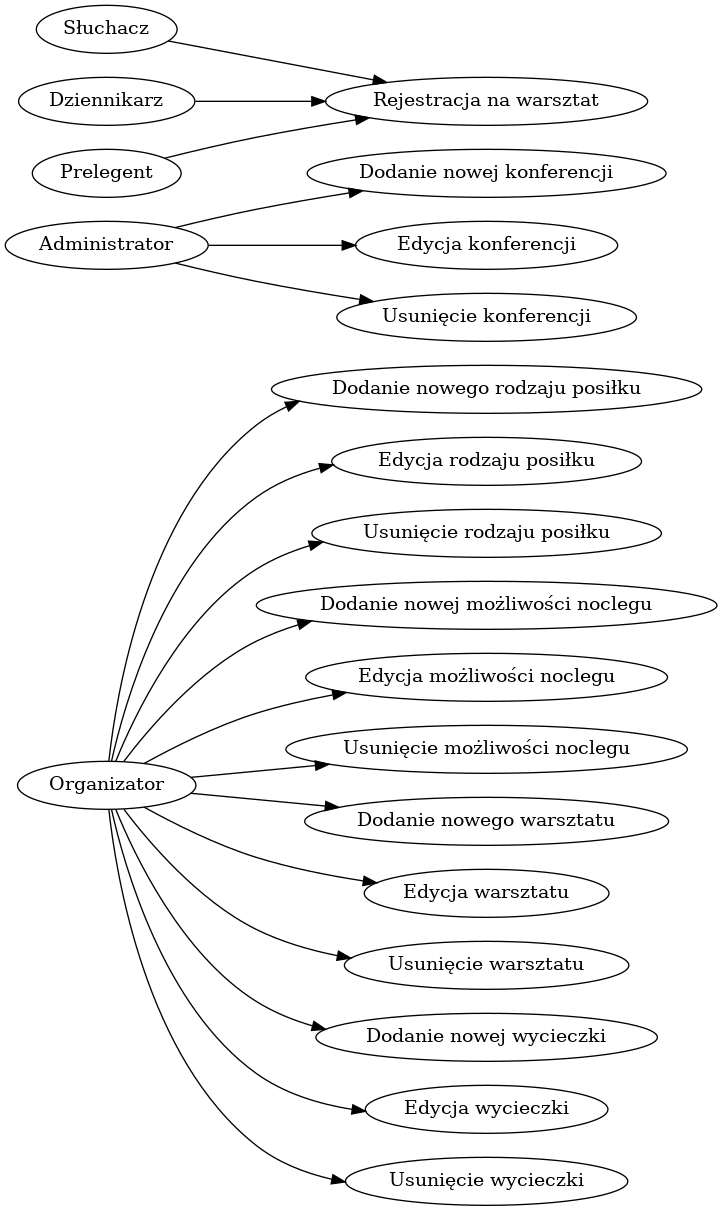
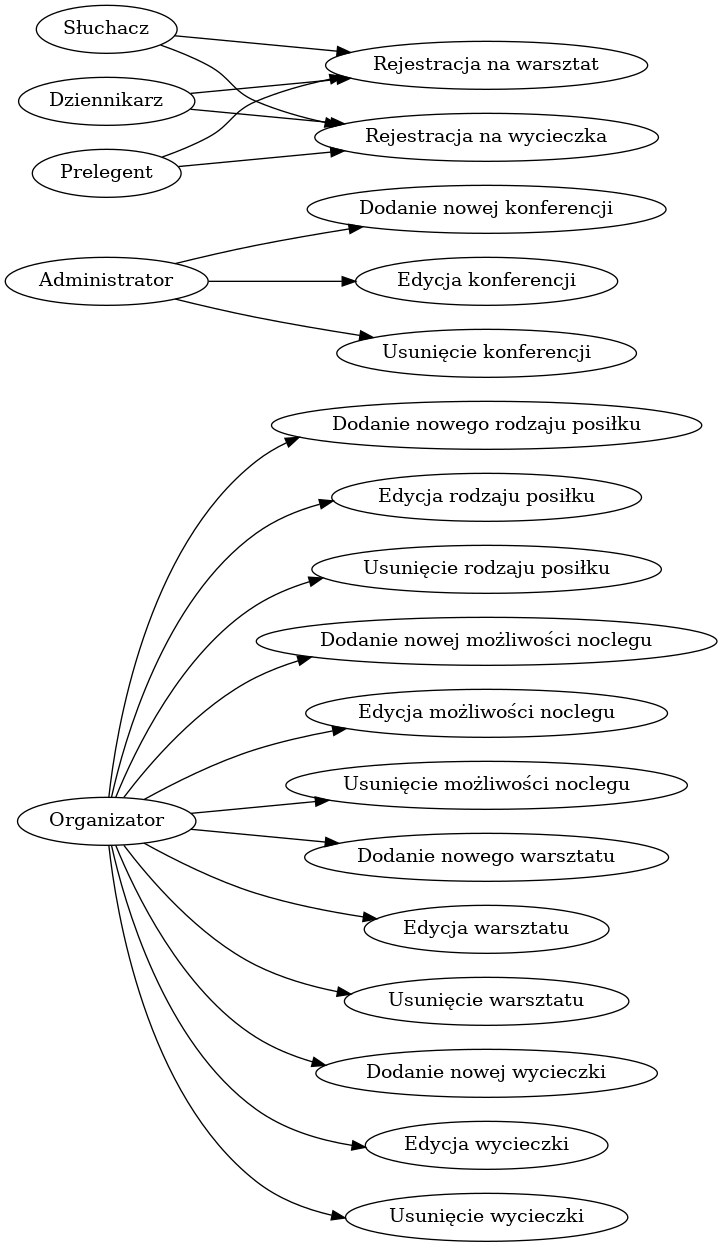
Changes so far

diff --git a/iop.html b/iop.html
@@ -282,6 +282,24 @@
 <li>System wyświetla komunikat o błędzie.</li>
 <li>Powrót do punktu 1.</li>
 </ol>
+<h3 id="pb17-rejestracja-na-wycieczka">PB17 Rejestracja na wycieczka</h3>
+<p>Aktorzy: Słuchacz, Dziennikarz, Prelegent</p>
+<p><em>Scenariusz główny:</em></p>
+<ol style="list-style-type: decimal">
+<li>Uczestnik wybiera opcję &quot;Rejestracja na wycieczka&quot;.</li>
+<li>System prezentuje listę wycieczek.</li>
+<li>Uczestnik wybiera wycieczka.</li>
+<li>Uczestnik zatwierdza.</li>
+<li>System generuje rachunek do zapłacenia.</li>
+<li>System zapisuje rezerwację.</li>
+</ol>
+<p><em>Scenariusz alternatywny 1:</em></p>
+<p>1-4. Jak w scenariuszu głównym</p>
+<ol start="5" style="list-style-type: decimal">
+<li>Miejsce zostało zajęte w międzyczasie.</li>
+<li>System wyświetla komunikat o błędzie.</li>
+<li>Powrót do punktu 1.</li>
+</ol>
 <h2 id="przypadki-systemowe">Przypadki Systemowe</h2>
 <h2 id="diagram">Diagram</h2>
 <p><img src=przypadki.png></p>

diff --git a/gienierator.py b/gienierator.py
@@ -209,6 +209,8 @@ CRUD(konferencja, 'nazwę i opis', aktor='Administrator')
 
 RejestracjaNa(warsztat, aktorzy='Słuchacz, Dziennikarz, Prelegent', aktor_gl='Uczestnik')
 
+RejestracjaNa(wycieczka, aktorzy='Słuchacz, Dziennikarz, Prelegent', aktor_gl='Uczestnik')
+
 print()
 print("## Przypadki Biznesowe")
 print(pb_out.getvalue())

diff --git a/iop.md b/iop.md
@@ -320,6 +320,27 @@ _Scenariusz alternatywny 1:_
 6. System wyświetla komunikat o błędzie.
 7. Powrót do punktu 1.
 
+### PB17 Rejestracja na wycieczka
+
+Aktorzy: Słuchacz, Dziennikarz, Prelegent
+
+_Scenariusz główny:_
+
+1. Uczestnik wybiera opcję "Rejestracja na wycieczka".
+2. System prezentuje listę wycieczek.
+3. Uczestnik wybiera wycieczka.
+4. Uczestnik zatwierdza.
+5. System generuje rachunek do zapłacenia.
+6. System zapisuje rezerwację.
+
+_Scenariusz alternatywny 1:_
+
+1-4. Jak w scenariuszu głównym
+
+5. Miejsce zostało zajęte w międzyczasie.
+6. System wyświetla komunikat o błędzie.
+7. Powrót do punktu 1.
+
 
 ## Przypadki Systemowe
 
